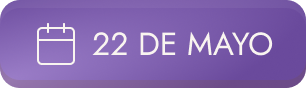
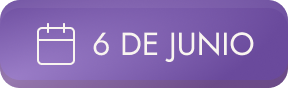
ultimos cambios

diff --git a/styles/globals.css b/styles/globals.css
@@ -269,7 +269,7 @@ body {
     width: 100%;
     min-height: unset;
     /* empuja el contenido para que la cara de Aida quede visible arriba */
-    padding-top: clamp(200px, 50vw, 300px);
+    padding-top: clamp(225px, 50vw, 325px);
     padding-bottom: 40px;
   }
 
@@ -858,8 +858,25 @@ body {
   font-size: clamp(20px, 2.4vw, 28px);
   font-weight: 600;
   line-height: 1.3;
-  color: #290066;
   letter-spacing: -0.015em;
+  background: linear-gradient(
+    90deg,
+    #a06c08 0%,
+    #c8960c 30%,
+    #d4a020 55%,
+    #9a6206 80%,
+    #c8960c 100%
+  );
+  background-size: 200% auto;
+  -webkit-background-clip: text;
+  -webkit-text-fill-color: transparent;
+  background-clip: text;
+  animation: gold-shimmer 4s linear infinite;
+}
+
+@keyframes gold-shimmer {
+  0%   { background-position: 0% center; }
+  100% { background-position: 200% center; }
 }
 
 /* Mobile — single column */
@@ -944,7 +961,7 @@ body {
 
 @media (max-width: 480px) {
   .section3 {
-    height: 367px;
+    height: 694px;
     background-image: url("/bg-section-3-mobile.webp");
   }
 }
@@ -1508,7 +1525,7 @@ body {
 
   .s6-copy {
     /* Space for Aida's face above content */
-    margin-top: clamp(275px, 60vw, 350px);
+    margin-top: clamp(300px, 65vw, 350px);
     padding: 0 0 48px;
     gap: 16px;
   }
@@ -1628,6 +1645,187 @@ body {
   display: flex;
   width: 100%;
   max-width: 420px;
+}
+
+/* Support CTA — inverted: gold background, violet text/glow */
+.final-support-link {
+  --primary: #6A4A9C;
+  --neutral-1: #D4A855;
+  --neutral-2: #B8882E;
+
+  cursor: pointer;
+  border-radius: 14px;
+  text-decoration: none;
+  text-shadow: 0 1px 1px rgba(0, 0, 0, 0.2);
+  border: none;
+  box-shadow:
+    0 0.5px 0.5px 1px rgba(255, 255, 255, 0.2),
+    0 10px 20px rgba(180, 130, 40, 0.35),
+    0 4px 5px rgba(0, 0, 0, 0.1);
+  display: flex;
+  align-items: center;
+  justify-content: center;
+  position: relative;
+  transition: all 0.3s ease;
+  min-width: 240px;
+  width: 100%;
+  max-width: 420px;
+  padding: 20px;
+  height: 68px;
+  color: #F9F5F0;
+  text-shadow: 0 1px 1px rgba(0, 0, 0, 0.3);
+  font-family: var(--font-jost), Arial, sans-serif;
+  font-style: normal;
+  font-size: 18px;
+  font-weight: 600;
+}
+
+.final-support-link:hover {
+  transform: scale(1.02);
+  box-shadow:
+    0 0 1px 2px rgba(255, 255, 255, 0.3),
+    0 15px 30px rgba(180, 130, 40, 0.45),
+    0 10px 3px -3px rgba(0, 0, 0, 0.1);
+}
+
+.final-support-link:active {
+  transform: scale(1);
+  box-shadow:
+    0 0 1px 2px rgba(255, 255, 255, 0.3),
+    0 10px 3px -3px rgba(180, 130, 40, 0.35);
+}
+
+.final-support-link::after {
+  content: "";
+  position: absolute;
+  inset: 0;
+  border-radius: 14px;
+  border: 2.5px solid transparent;
+  background:
+    linear-gradient(var(--neutral-1), var(--neutral-2)) padding-box,
+    linear-gradient(to bottom, rgba(255, 255, 255, 0.25), rgba(0, 0, 0, 0.35)) border-box;
+  z-index: 0;
+  transition: all 0.4s ease;
+}
+
+.final-support-link:hover::after {
+  transform: scale(1.05, 1.1);
+  box-shadow: inset 0 -1px 3px 0 rgba(255, 255, 255, 0.8);
+}
+
+.final-support-link::before {
+  content: "";
+  inset: 7px 6px 6px 6px;
+  position: absolute;
+  background: linear-gradient(to top, var(--neutral-1), var(--neutral-2));
+  border-radius: 30px;
+  filter: blur(0.5px);
+  z-index: 2;
+}
+
+.final-support-link .state {
+  padding-left: 29px;
+  z-index: 3;
+  display: flex;
+  position: relative;
+}
+
+.final-support-link .state p {
+  display: flex;
+  align-items: center;
+  justify-content: center;
+  margin: 0;
+}
+
+.final-support-link .state .icon {
+  position: absolute;
+  left: 0;
+  top: 0;
+  bottom: 0;
+  margin: auto;
+  transform: scale(1.25);
+  transition: all 0.3s ease;
+  display: flex;
+  align-items: center;
+  justify-content: center;
+}
+
+.final-support-link:hover .state .icon,
+.final-support-link:active .state .icon {
+  animation: wa-float 0.6s ease-in-out;
+}
+
+.final-support-link .state .icon svg {
+  overflow: visible;
+}
+
+@keyframes wa-float {
+  0%   { transform: scale(1.25) translateY(0); }
+  35%  { transform: scale(1.25) translateY(-4px); }
+  65%  { transform: scale(1.25) translateY(2px); }
+  100% { transform: scale(1.25) translateY(0); }
+}
+
+.final-support-link .outline {
+  position: absolute;
+  border-radius: inherit;
+  overflow: hidden;
+  z-index: 1;
+  opacity: 0;
+  transition: opacity 0.4s ease;
+  inset: -2px -3.5px;
+}
+
+.final-support-link .outline::before {
+  content: "";
+  position: absolute;
+  inset: -100%;
+  background: conic-gradient(
+    from 180deg,
+    transparent 60%,
+    #6A4A9C 80%,
+    transparent 100%
+  );
+  animation: btn-spin 2s linear infinite;
+  animation-play-state: paused;
+}
+
+.final-support-link:hover .outline {
+  opacity: 1;
+}
+
+.final-support-link:hover .outline::before {
+  animation-play-state: running;
+}
+
+.final-support-link .state p span {
+  display: inline-block;
+  opacity: 0;
+  color: #F9F5F0;
+  animation: wa-slideDown 0.8s ease forwards calc(var(--i, 0) * 0.03s);
+}
+
+@keyframes wa-slideDown {
+  0% {
+    opacity: 0;
+    transform: translateY(-20px) translateX(5px) rotate(-90deg);
+    color: #F9F5F0;
+  }
+  60% {
+    opacity: 1;
+    transform: translateY(4px);
+    color: #F9F5F0;
+  }
+  100% {
+    opacity: 1;
+    transform: translateY(0);
+    color: #F9F5F0;
+  }
+}
+
+.final-support-link:hover p span {
+  opacity: 1;
+  animation: btn-wave 0.5s ease forwards calc(var(--i, 0) * 0.02s);
 }
 
 /* Support CTA — same .button structure, gold color palette */

diff --git a/components/FinalSection.tsx b/components/FinalSection.tsx
@@ -6,7 +6,8 @@ import SplitType from "split-type";
 
 gsap.registerPlugin(ScrollTrigger);
 
-const ctaPrimary = "QUIERO RESERVAR MI LUGAR";
+const ctaPrimary = "Reservar mi lugar";
+const ctaSupport = "Contacta con soporte";
 
 const schedules = [
   { country: "España",    src: "/espana.webp" },
@@ -98,7 +99,7 @@ export default function FinalSection() {
           />
 
           <h2 className="final-title" id="final-title">
-            Te espero este 22 de mayo vía Zoom para <mark className="final-highlight">recordar quién eres</mark> más allá del ruido, el miedo y las versiones que ya no te representan.
+            Te espero este 06 de Junio vía Zoom para <mark className="final-highlight">recordar quién eres</mark> más allá del ruido, el miedo y las versiones que ya no te representan.
           </h2>
 
           <div className="final-actions">
@@ -111,15 +112,15 @@ export default function FinalSection() {
               <div className="outline" />
               <div className="state state--default">
                 <div className="icon" aria-hidden="true">
-                  <svg width="1em" height="1em" viewBox="0 0 24 24" fill="none">
-                    <g style={{ filter: "url(#sparkleFinal)" }}>
+                  <svg width="1em" height="1em" viewBox="0 0 24 24" fill="none" xmlns="http://www.w3.org/2000/svg">
+                    <g style={{ filter: "url(#sparkleShadow)" }}>
                       <path
                         d="M12 2.5l2.4 6.1L20.5 11l-6.1 2.4L12 19.5l-2.4-6.1L3.5 11l6.1-2.4L12 2.5z"
                         fill="currentColor"
                       />
                     </g>
                     <defs>
-                      <filter id="sparkleFinal">
+                      <filter id="sparkleShadow">
                         <feDropShadow dx="0" dy="1" stdDeviation="0.6" floodOpacity="0.5" />
                       </filter>
                     </defs>
@@ -127,6 +128,30 @@ export default function FinalSection() {
                 </div>
                 <p>
                   {ctaPrimary.split("").map((char, i) => (
+                    <span key={i} style={{ "--i": i } as React.CSSProperties}>
+                      {char === " " ? " " : char}
+                    </span>
+                  ))}
+                </p>
+              </div>
+            </a>
+
+            <a
+              href="https://wa.link/insiui"
+              className="final-support-link"
+              target="_blank"
+              rel="noopener noreferrer"
+            >
+              <div className="outline" />
+              <div className="state state--default">
+                <div className="icon" aria-hidden="true">
+                  <svg width="1em" height="1em" viewBox="0 0 24 24" fill="currentColor" xmlns="http://www.w3.org/2000/svg">
+                    <path d="M17.472 14.382c-.297-.149-1.758-.867-2.03-.967-.273-.099-.471-.148-.67.15-.197.297-.767.966-.94 1.164-.173.199-.347.223-.644.075-.297-.15-1.255-.463-2.39-1.475-.883-.788-1.48-1.761-1.653-2.059-.173-.297-.018-.458.13-.606.134-.133.298-.347.446-.52.149-.174.198-.298.298-.497.099-.198.05-.371-.025-.52-.075-.149-.669-1.612-.916-2.207-.242-.579-.487-.5-.669-.51-.173-.008-.371-.01-.57-.01-.198 0-.52.074-.792.372-.272.297-1.04 1.016-1.04 2.479 0 1.462 1.065 2.875 1.213 3.074.149.198 2.096 3.2 5.077 4.487.709.306 1.262.489 1.694.625.712.227 1.36.195 1.871.118.571-.085 1.758-.719 2.006-1.413.248-.694.248-1.289.173-1.413-.074-.124-.272-.198-.57-.347z" />
+                    <path d="M12 0C5.373 0 0 5.373 0 12c0 2.123.554 4.117 1.523 5.845L.057 23.428a.5.5 0 0 0 .609.61l5.652-1.48A11.945 11.945 0 0 0 12 24c6.627 0 12-5.373 12-12S18.627 0 12 0zm0 21.818a9.806 9.806 0 0 1-5.012-1.374l-.36-.214-3.733.977.998-3.645-.234-.374A9.818 9.818 0 0 1 2.182 12C2.182 6.57 6.57 2.182 12 2.182S21.818 6.57 21.818 12 17.43 21.818 12 21.818z" />
+                  </svg>
+                </div>
+                <p>
+                  {ctaSupport.split("").map((char, i) => (
                     <span key={i} style={{ "--i": i } as React.CSSProperties}>
                       {char === " " ? " " : char}
                     </span>

diff --git a/components/PainSection.tsx b/components/PainSection.tsx
@@ -33,7 +33,7 @@ const symptoms = [
     icon: Ear,
     text: (
       <>
-        Tu intuición te pide <em>cambios que aún no sabés cómo hacer</em>
+        Tu intuición te pide <em>cambios que aún no sabes cómo hacer</em>
       </>
     ),
   },
@@ -41,7 +41,7 @@ const symptoms = [
     icon: Lock,
     text: (
       <>
-        Trabajaste mucho en vos… pero <em>algo sigue bloqueado</em>
+        Has trabajado mucho en ti… pero <em>algo sigue bloqueado</em>
       </>
     ),
   },
@@ -49,7 +49,7 @@ const symptoms = [
     icon: Heart,
     text: (
       <>
-        Querés volver a sentir <em>conexión</em> con vos, con Dios y con tu verdad
+        Quieres volver a sentir <em>conexión</em> contigo, con Dios y con tu verdad
       </>
     ),
   },
@@ -57,7 +57,7 @@ const symptoms = [
     icon: UserRoundX,
     text: (
       <>
-        Ya no te identificás con <em>la versión que estás sosteniendo</em>
+        Ya no te identificas con <em>la versión que estás sosteniendo</em>
       </>
     ),
   },
@@ -165,8 +165,8 @@ export default function PainSection() {
             <em>siguiente nivel de tu alma.</em>
           </p>
           <p>
-            Y aunque por fuera continúes con tu vida… por dentro sentís que te
-            estás alejando de quien realmente sos en esencia.
+            Y aunque por fuera continúes con tu vida… por dentro sientes que te
+            estás alejando de quien realmente eres en esencia.
           </p>
         </div>
 
@@ -192,8 +192,8 @@ export default function PainSection() {
             no llena el vacío.
           </p>
           <p className="pain-close__emphasis">
-            Solo volver a vos puede regresarte a la coherencia, la paz, la
-            plenitud y a manifestar una vida que amés todos los días.
+            Solo volver a ti puede regresarte a la coherencia, la paz, la
+            plenitud y a manifestar una vida que ames todos los días.
           </p>
         </div>
 

diff --git a/components/Section4Close.tsx b/components/Section4Close.tsx
@@ -57,11 +57,11 @@ export default function Section4Close() {
           La verdadera transformación no ocurre solo entendiendo más.
         </p>
         <p className="text-reveal s4-close__phrase">
-          Ocurre cuando empezás a habitar una nueva frecuencia en tu vida real.
+          Ocurre cuando empiezas a habitar una nueva frecuencia en tu vida real.
         </p>
         <p className="text-reveal s4-close__phrase">
           En tu cuerpo, en tus relaciones, en tus decisiones,<br />
-          en la forma en la que te elegís.
+          en la forma en la que te eliges.
         </p>
       </div>
     </div>

diff --git a/components/HeroSection.tsx b/components/HeroSection.tsx
@@ -39,7 +39,7 @@ export default function HeroSection() {
 
           <p className="hero-description">
             Una experiencia profunda diseñada para liberar bloqueos energéticos,
-            reconectar con tu intuición y volver a sentirte alinead@ contigo.
+            reconectar con tu intuición y volver a sentirte alineada contigo.
           </p>
 
           <div className="hero-schedules" aria-label="Horarios por país">